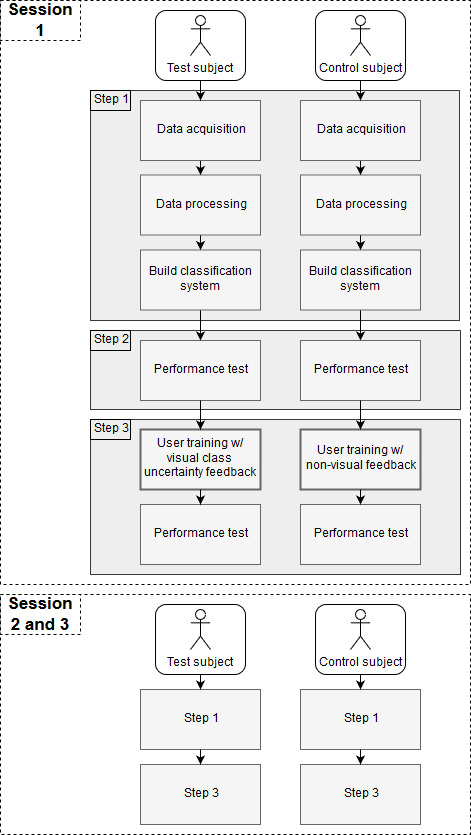
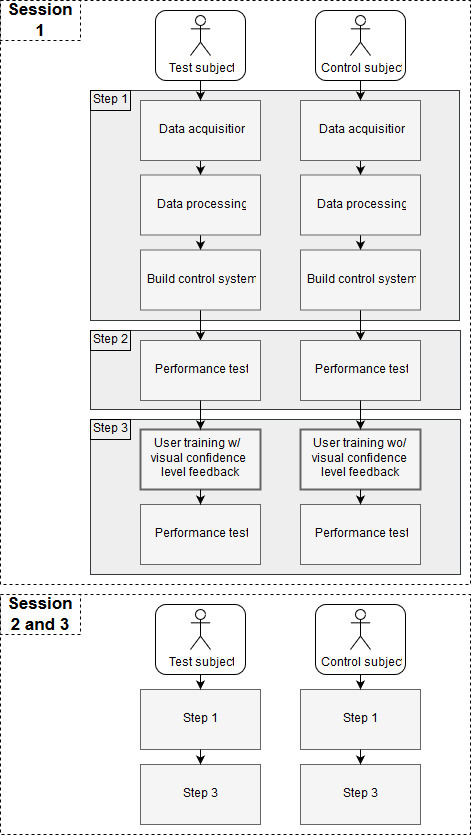
rettelser til dtudy design

diff --git a/contents/zMethods/StudyDesign.tex b/contents/zMethods/StudyDesign.tex
@@ -1,19 +1,17 @@
 \section{Study Design}
 
-This experiment will focus on training the user to improve prosthetic control on a fixed pattern recognition-based control system. The novel approach in this study is to provide the user with information on how well the system recognizes the performed movement during user training by showing the uncertainty of recognized movement as a visual feedback. The following section will lay an overview of the implementation of the different stages of this experiment.
+This experiment focused on training the user to improve prosthetic control on a fixed pattern recognition-based control system. The novel approach in this study was to provide the user with visual feedback on how well the system recognized the performed movements during user training, by showing the confidence levels of the movements the control system recognized. The following section will lay an overview of the implementation of the different stages of this experiment.
 
-To test if myoelectric prosthetic control can be improved by using a visual uncertainty feedback the following research hypothesis has been made.  
+To test if myoelectric prosthetic control could be improved by using visual confidence level feedback the following research hypothesis was made.  
 \begin{center}
-	Exposing subjects to user training, in which confidence levels of movement recognition is used as feedback, will show improvement in performance in a classification-based myoelectric prosthetic control scheme compared the control group.
+	Exposing subjects to user training, in which confidence levels of movement recognition is used as feedback, will show statistically significant improvement in performance in a classification-based myoelectric prosthetic control scheme compared to a control group.
 \end{center}
 
-To test the hypothesis XX subjects of age XX $\pm$ XX were recruited, X right handed and X left handed, and randomly assigned to either a control group or test group. The subjects enrolled were assessed to meet inclusion criteria presented in the experimental protocol for test subjects in \secref{sec:Eprot}. The experimental protocol was handed out to possible test participants before enrollment. The experiment is designed as a three session trail where data is acquired for both control and test group, receiving user training and gets a performance a test taken in all sessions. It is important that during the experiment the subject will be placed sitting on a chair, with the arm, wearing the MYB on their dominant arm, hanging relaxed down by the side of the body. A graphical illustration of the stages of the experiment design can be seen on \figref{fig:std}. Essential for the experiment is the difference in user training highlighted in step 3 where the groups will receive two different kinds of visual feedback. The sections to come will further chronologically elaborate on the implementation of each element in the experiment.          
- 
 
+To test the hypothesis XX subjects of age XX, std $\pm$ XX were recruited, X right handed and X left handed, and randomly assigned to either a control group or test group. The subjects enrolled were assessed to meet inclusion criteria presented in the experimental protocol for test subjects in \secref{sec:Eprot}. The experimental protocol was handed out to possible test participants before enrolment. The experiment was designed as a three session investigation. In each session both groups had data data acquired, received user training and did a performance test. It was important that during the experiment the subject was seated on a chair, with the dominant arm wearing the MYB hanging relaxed laterally down the torso. A graphical illustration of the stages of the experiment design can be seen on \figref{fig:std}. Essential for the experiment was the difference in user training highlighted in step 3 where the groups received two different kinds of visual feedback. The sections to come will further elaborate on the implementation of each element in the experiment.
+ 
 \begin{figure}[H]                                         
-	\includegraphics[width=.64\textwidth]{figures/pMethods/Study_design}  
-	\caption{Graphical illustration of the experiment showing the steps of each session for the test and control group. Highlighted is user training in step three which essentially is the only place where the experiment differs between groups in the type of feedback given.}
+	\includegraphics[width=0.64\textwidth]{figures/pMethods/Study_design}  
+	\caption{Graphical illustration of the experiment showing the steps of each session for the test and control group. Highlighted is user training in step 3 which is the only procedure that varies between the two groups, and thus the area of research interest in the experiment.}
 	\label{fig:std} 
 \end{figure}   
-
-
